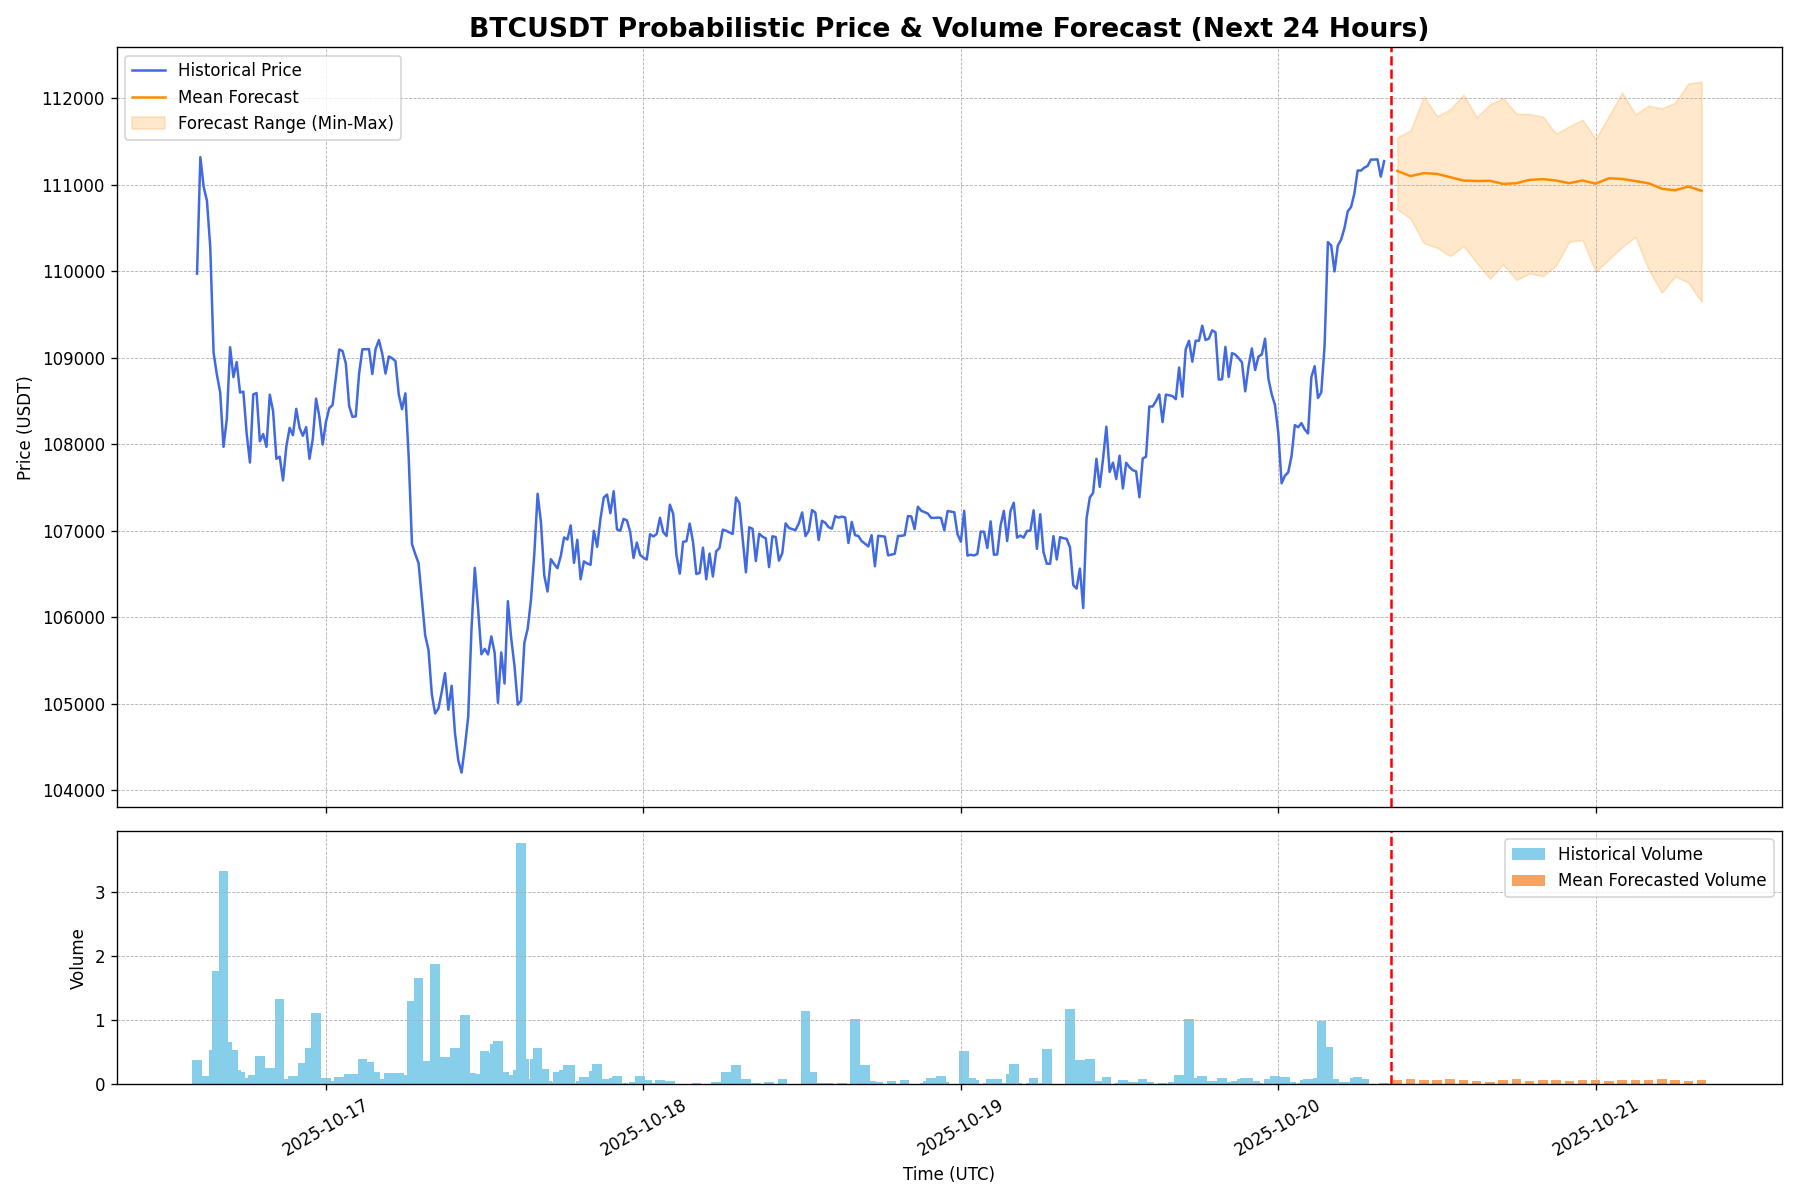
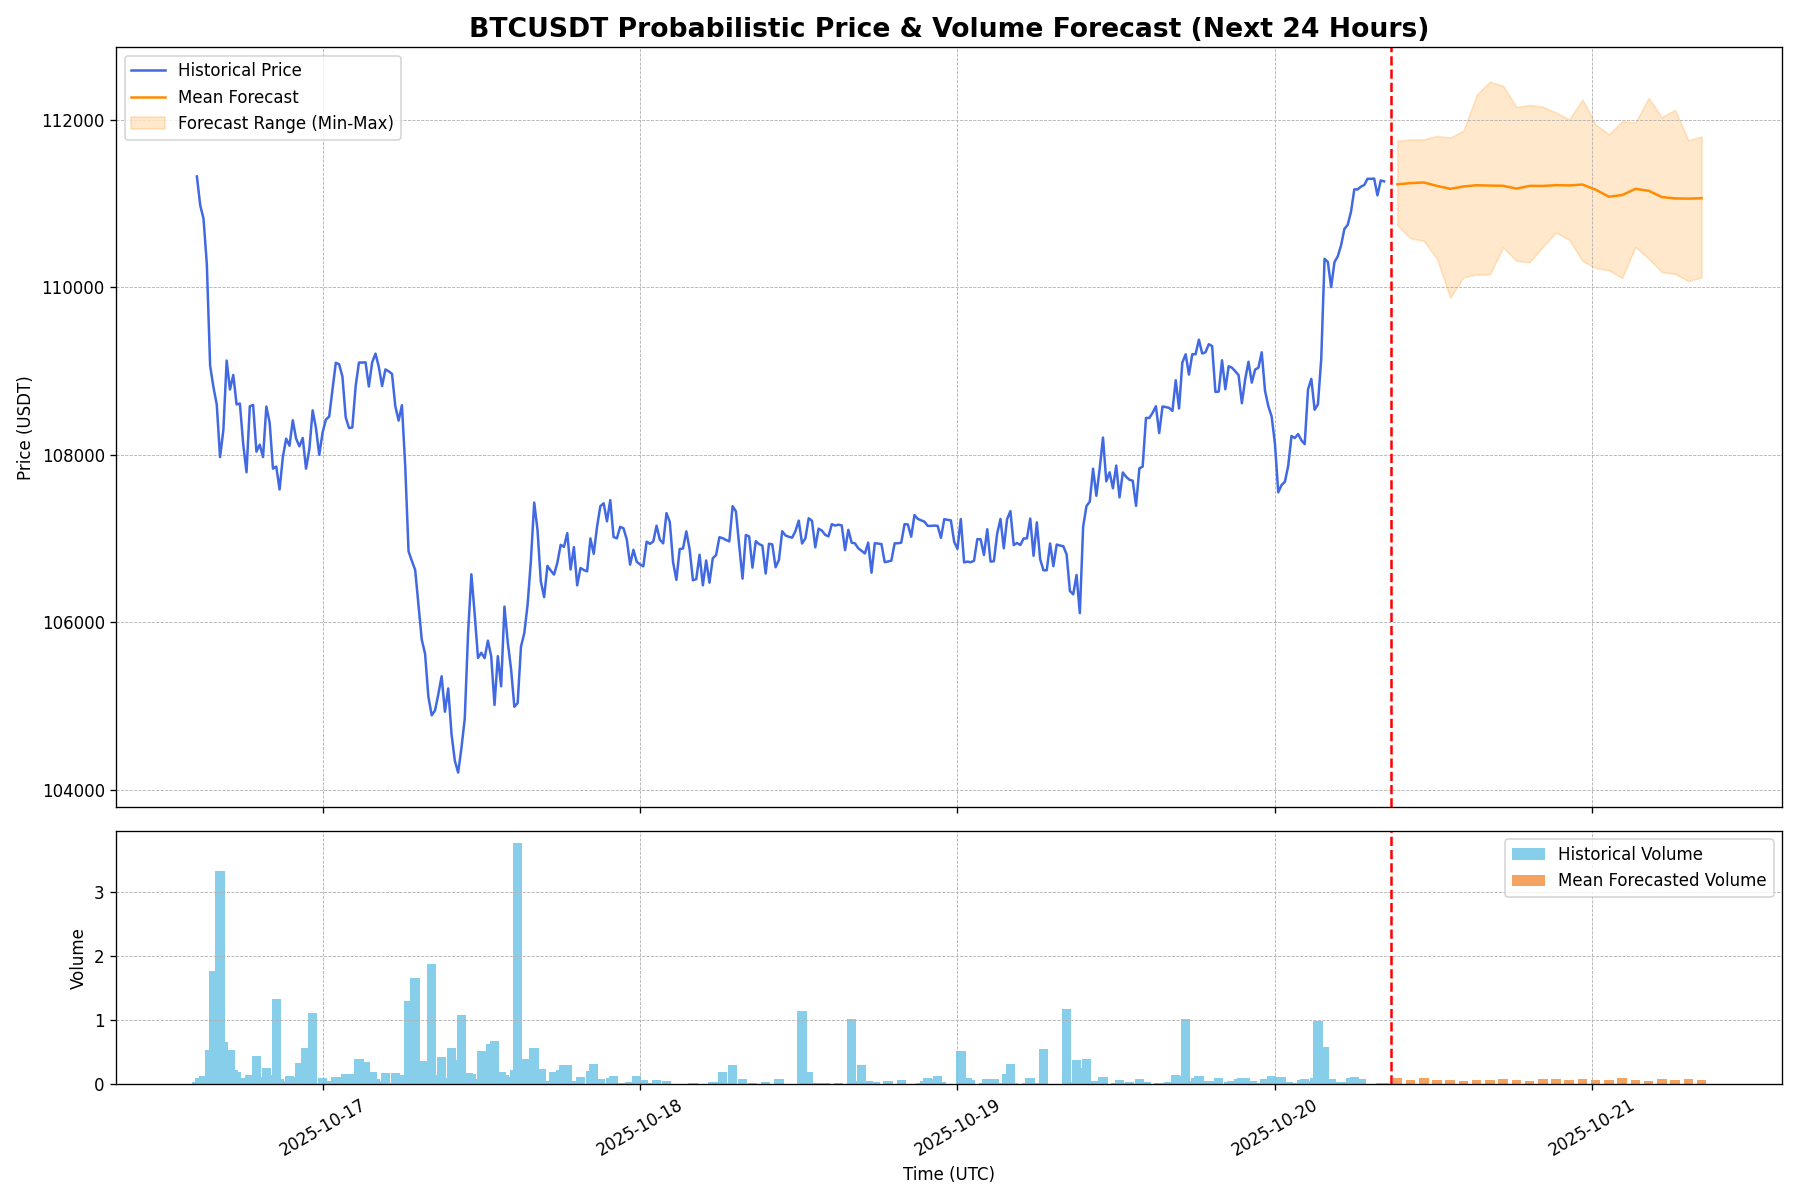
Auto-update forecast for 2025-10-20 08:36 UTC

diff --git a/index.html b/index.html
@@ -22,14 +22,14 @@
         <section id="live-dashboard">
             <h2>Live BTC/USDT Forecast Dashboard</h2>
             <div class="metadata">
-                <span>Last Updated (UTC): <strong id="update-time">2025-10-20 08:21:34</strong></span>
+                <span>Last Updated (UTC): <strong id="update-time">2025-10-20 08:36:33</strong></span>
                 <span>Data Source: Binance | Interval: 1-Hour</span>
             </div>
 
             <div class="metrics-container">
                 <div class="metric-card">
                     <h3>Upside Probability (Next 24h)</h3>
-                    <p class="metric-value" id="upside-prob">23.3%</p>
+                    <p class="metric-value" id="upside-prob">26.7%</p>
                     <div class="metric-desc">The model's confidence that the price in 24 hours will be higher than the last known price.</div>
                 </div>
                 <div class="metric-card">
